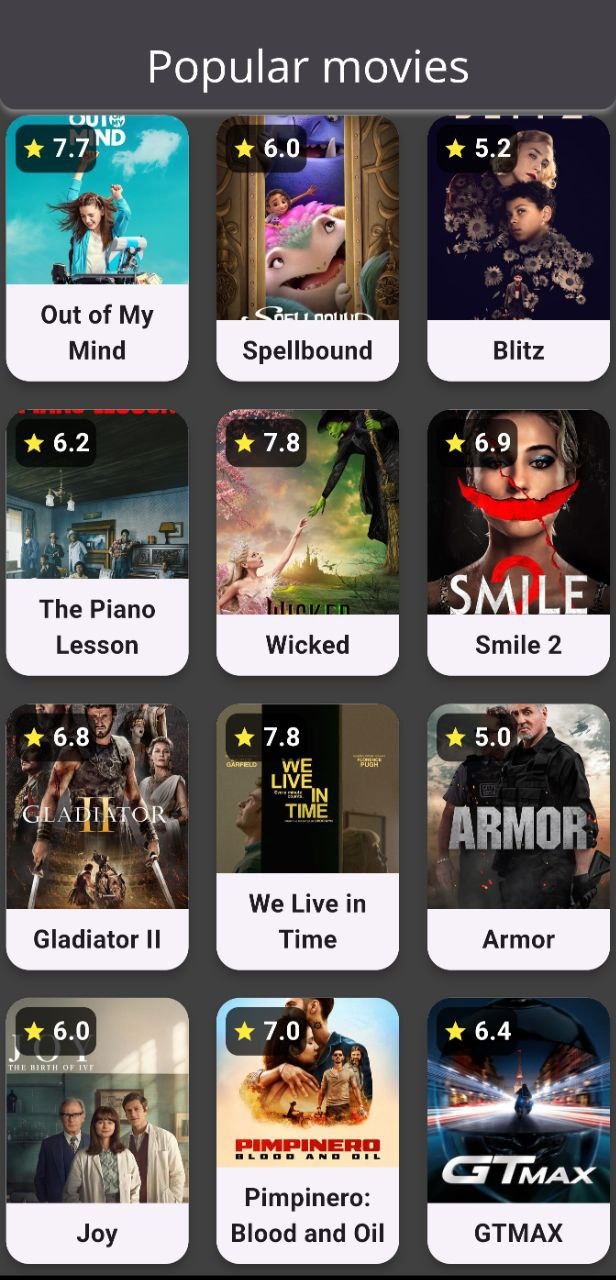
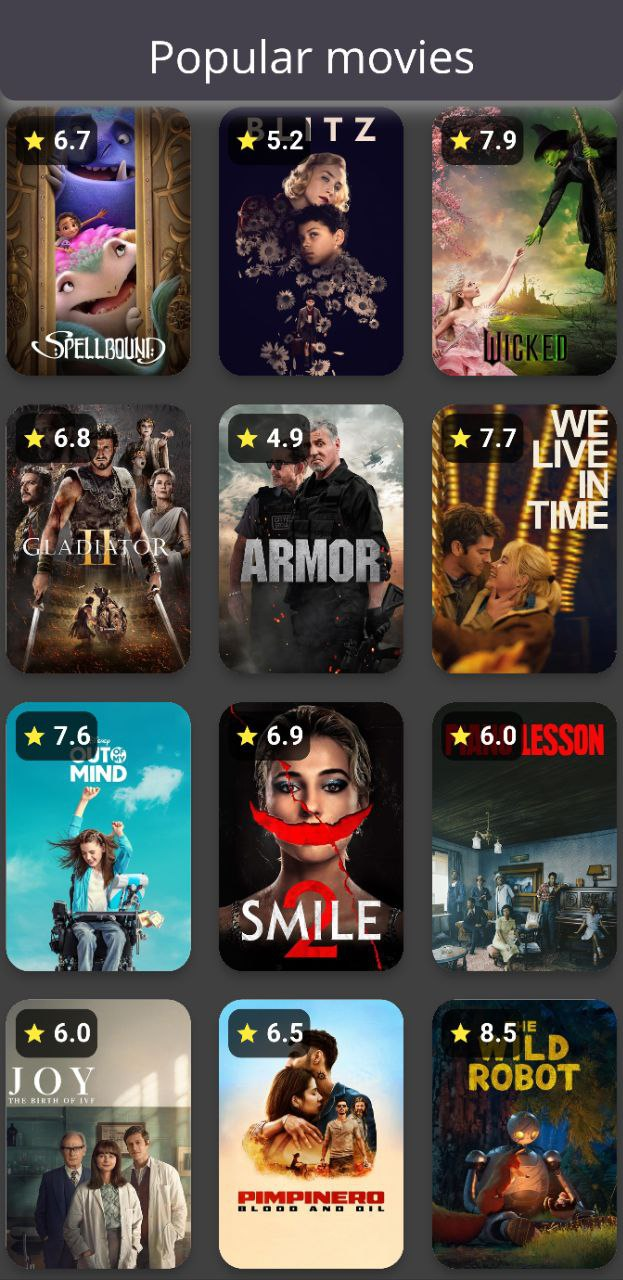
Improving UI

diff --git a/lib/views/elements/movie_card.dart b/lib/views/elements/movie_card.dart
@@ -47,6 +47,7 @@ class _MovieCardState extends State<MovieCard>
         child: Stack(
           children: [
             Card(
+              color: Colors.white.withOpacity(0.9),
               shape: RoundedRectangleBorder(
                   borderRadius: BorderRadius.circular(15)),
               elevation: 5,
@@ -58,10 +59,8 @@ class _MovieCardState extends State<MovieCard>
                     child: Hero(
                       tag: "poster-${widget._movie.id}",
                       child: ClipRRect(
-                        borderRadius: const BorderRadius.only(
-                          topLeft: Radius.circular(15),
-                          topRight: Radius.circular(15),
-                        ),
+                        borderRadius:
+                            const BorderRadius.all(Radius.circular(15)),
                         child: Image.network(
                           "https://image.tmdb.org/t/p/w500${widget._movie.posterPath}",
                           fit: BoxFit.cover,
@@ -77,15 +76,15 @@ class _MovieCardState extends State<MovieCard>
                       ),
                     ),
                   ),
-                  Padding(
-                    padding: const EdgeInsets.all(8.0),
-                    child: Text(
-                      maxLines: 2,
-                      widget._movie.title,
-                      textAlign: TextAlign.center,
-                      style: const TextStyle(fontWeight: FontWeight.bold),
-                    ),
-                  ),
+                  // Padding(
+                  //   padding: const EdgeInsets.all(8.0),
+                  //   child: Text(
+                  //     maxLines: 2,
+                  //     widget._movie.title,
+                  //     textAlign: TextAlign.center,
+                  //     style: const TextStyle(fontWeight: FontWeight.bold),
+                  //   ),
+                  // ),
                 ],
               ),
             ),
